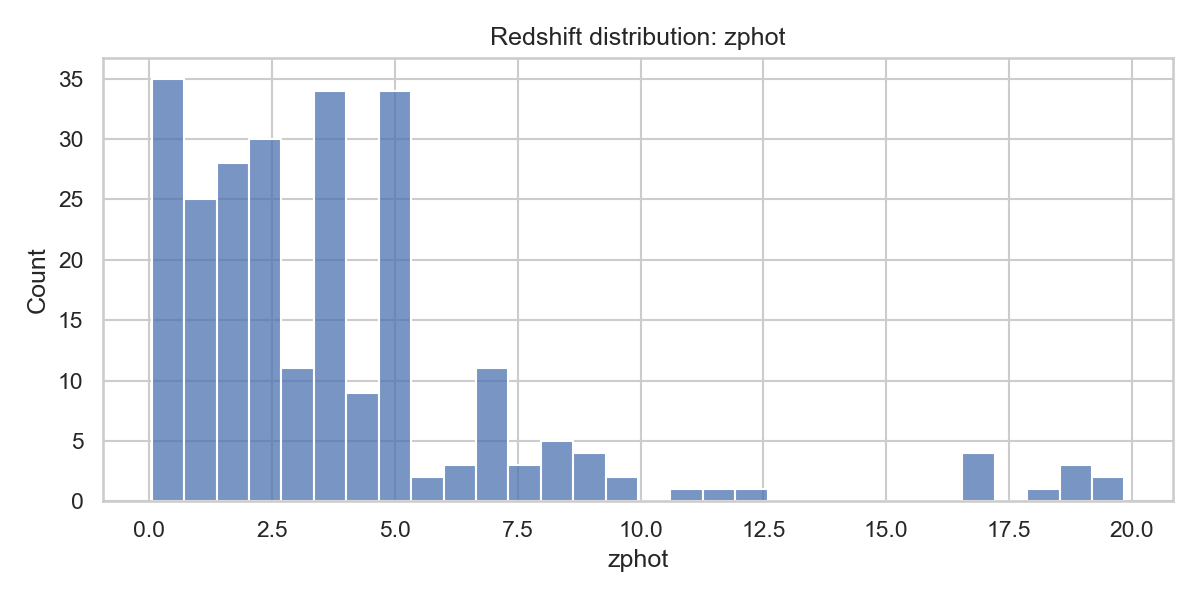
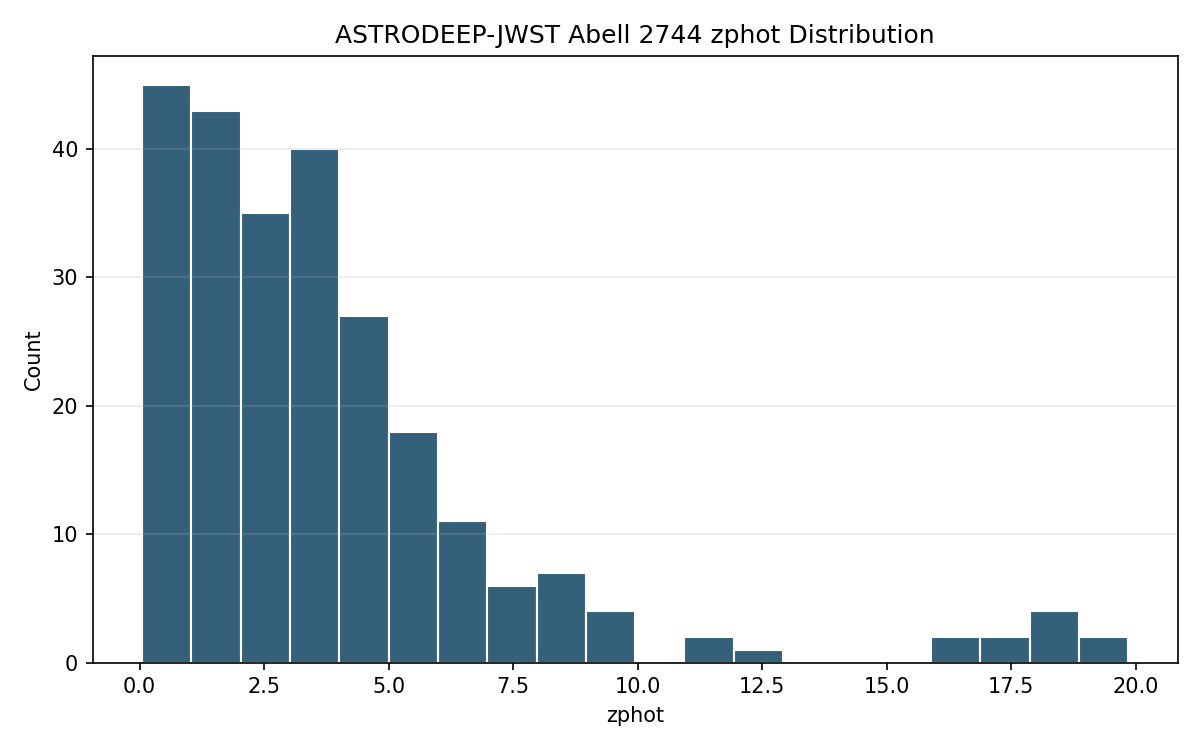
Add first redshift distribution validation

Changed region(s): [[0.0, 0.03, 0.9867, 0.96]]

diff --git a/research/observations/OBS-002.md b/research/observations/OBS-002.md
@@ -1,0 +1,29 @@
+# Observation Record
+
+- ID: OBS-002
+- Source Dataset: ASTRODEEP-JWST Abell 2744 redshift sample
+- Source Version: Processed artifact `data/processed/astrodeep_jwst.parquet` derived from VizieR `J/A+A/691/A240`, table `J/A+A/691/A240/a2744p`, sample row limit 250
+- Related Question(s):
+  - Q-100
+- Notebook / Analysis Reference: `notebooks/01_catalog_eda_template.ipynb`
+- Observation Description:
+  - Validation context: First output recorded for `VAL-100`.
+  - Histogram artifact saved to `outputs/figures/astrodeep_jwst_zphot_distribution.png`.
+  - `zphot` non-missing count: 249
+  - `zphot` mean: 3.873
+  - `zphot` median: 3.200
+  - `zphot` standard deviation: 3.778
+  - `zphot` minimum: 0.050
+  - `zphot` maximum: 19.850
+  - Missing values by field:
+    - `id`: 0
+    - `raj2000`: 0
+    - `dej2000`: 0
+    - `zspec`: 248
+    - `zphot`: 1
+    - `eazyeazyv13`: 0
+    - `eazylarson`: 0
+    - `eazylarsonlyared`: 0
+    - `flag`: 0
+- Confidence: High
+- Created: 2026-05-31

diff --git a/agent_handoff.md b/agent_handoff.md
@@ -35,6 +35,23 @@ Future agents should review assumptions before proposing analyses or interpretat
 
 ## Entries
 
+### 2026-05-31 20:02 Europe/Warsaw
+
+- Agent: `Codex`
+- Commit: `<pending>`
+- Summary: Generated the first validation output for `VAL-100` from the processed ASTRODEEP-JWST catalog, saved a `zphot` histogram, and recorded the observed summary statistics and missing-value counts in a new observation record.
+- Reason: Establish a descriptive validation baseline for redshift completeness and distribution before any higher-level analysis.
+
+- Files:
+  - `outputs/figures/astrodeep_jwst_zphot_distribution.png`
+  - `research/observations/OBS-002.md`
+  - `research/validations/VAL-100.md`
+  - `agent_handoff.md`
+
+- Next:
+  - Preserve the validation outputs as the baseline reference for future redshift-focused checks.
+  - Avoid interpretation beyond descriptive catalog properties unless a new question or validation requires it.
+
 ### 2026-05-31 19:43 Europe/Warsaw
 
 - Agent: `Codex`

diff --git a/research/validations/VAL-100.md b/research/validations/VAL-100.md
@@ -7,9 +7,13 @@
   - Inspect missing values
   - Compare availability of `zspec` vs `zphot`
   - Document limitations
-- Status: Planned
+- Status: Completed
+- Output:
+  - Histogram saved to `outputs/figures/astrodeep_jwst_zphot_distribution.png`
+  - Observed results recorded in `OBS-002`
 - Related Observation(s):
   - OBS-001
+  - OBS-002
 - Related Pattern(s):
   - PAT-100
 - Created: 2026-05-31